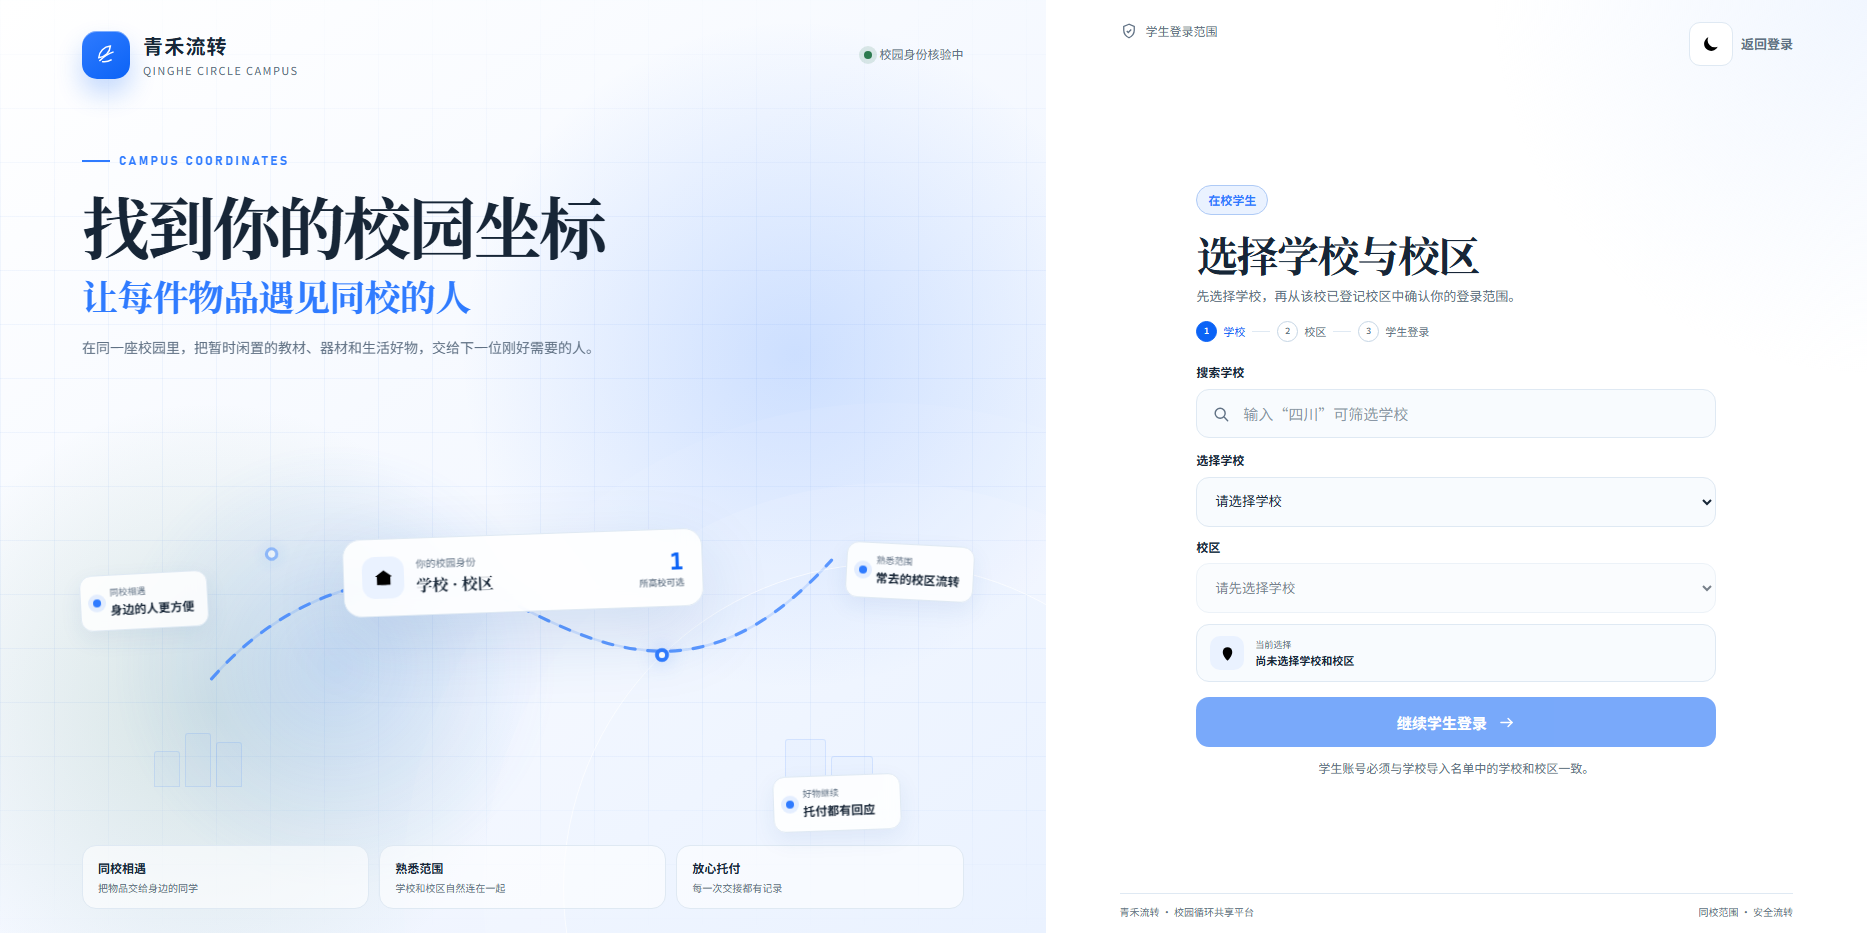
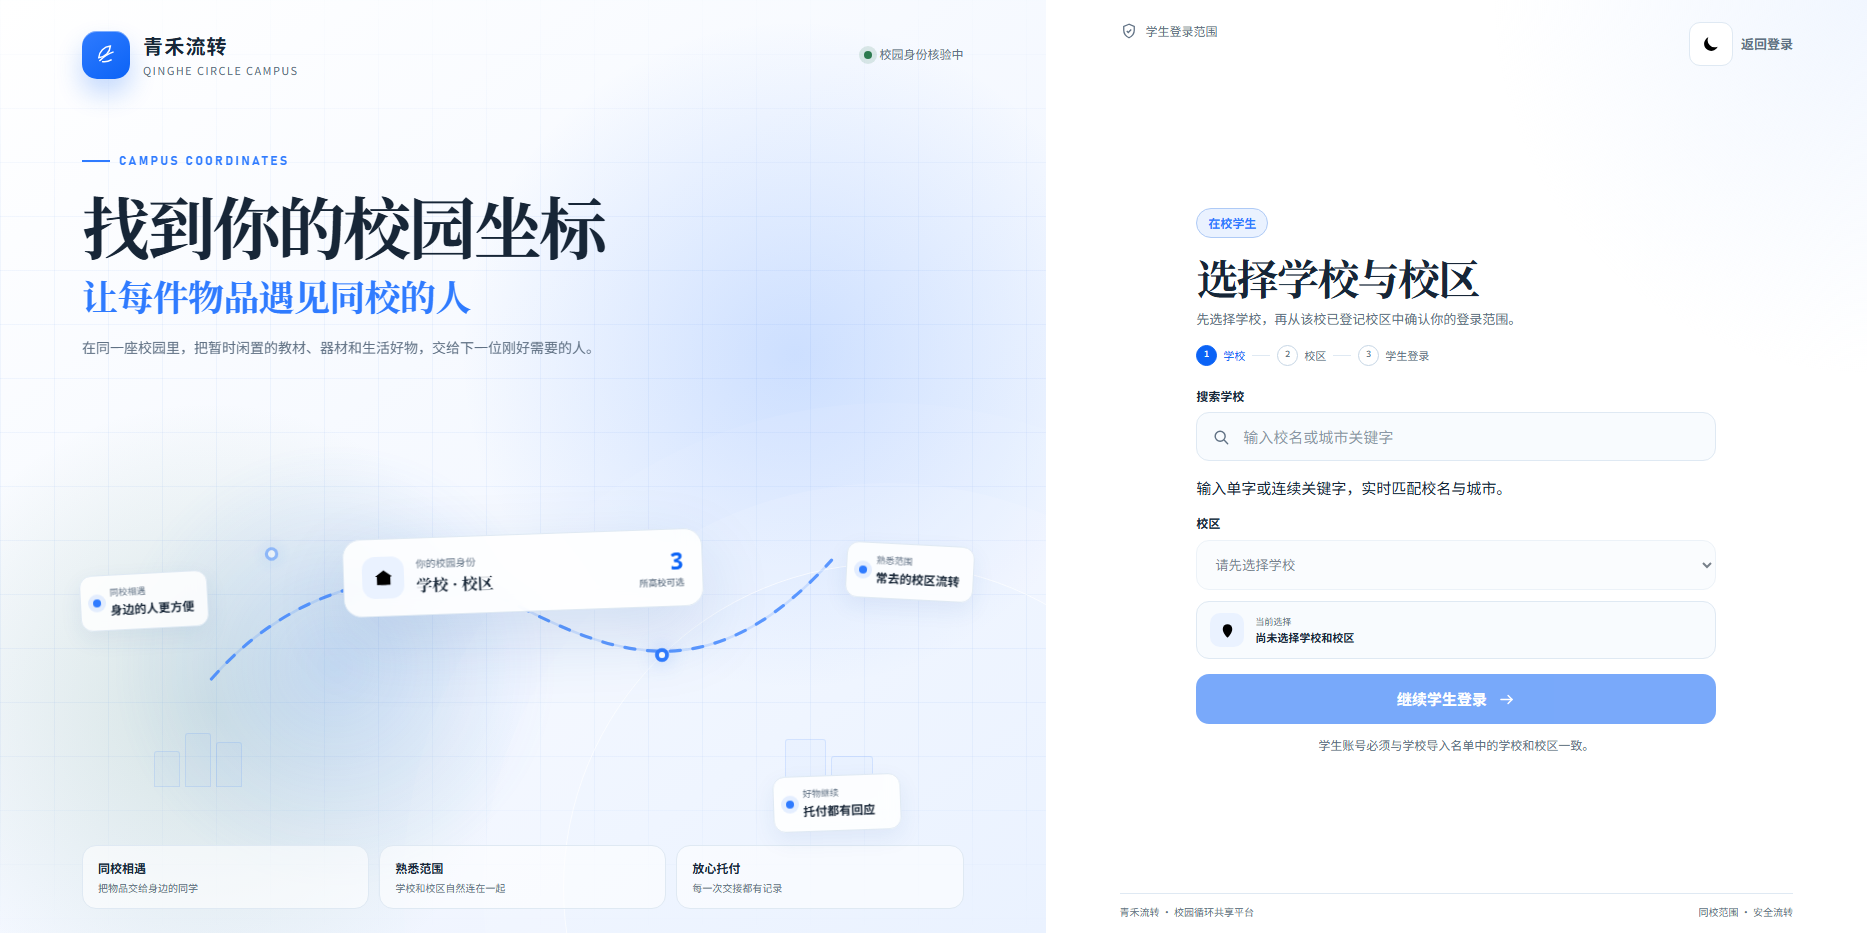
fix: 实现学校关键字实时搜索

Changed region(s): [[0.6213, 0.1865, 0.8077, 0.5595], [0.6213, 0.5906, 0.932, 0.8392], [0.6213, 0.5595, 0.6524, 0.5906]]

diff --git a/app/templates/auth/student_context.html b/app/templates/auth/student_context.html
@@ -131,18 +131,22 @@
           <input type="hidden" name="csrf_token" value="{{ csrf_token() }}">
           <input type="hidden" name="next" value="{{ next_target or '' }}">
 
-          <div class="form-field">
+          <div class="form-field university-picker" id="university-picker">
             <label for="university-filter">搜索学校</label>
-            <div class="input-shell context-input-shell">
-              <span class="input-icon" aria-hidden="true">
-                <svg viewBox="0 0 24 24"><circle cx="11" cy="11" r="6"></circle><path d="m16 16 4 4"></path></svg>
-              </span>
-              <input id="university-filter" type="text" placeholder="输入“四川”可筛选学校"
-                     aria-controls="university_id" autocomplete="off">
+            <div class="university-combobox">
+              <div class="input-shell context-input-shell">
+                <span class="input-icon" aria-hidden="true">
+                  <svg viewBox="0 0 24 24"><circle cx="11" cy="11" r="6"></circle><path d="m16 16 4 4"></path></svg>
+                </span>
+                <input id="university-filter" type="search" placeholder="输入校名或城市关键字"
+                       role="combobox" aria-autocomplete="list" aria-expanded="false"
+                       aria-controls="university-results" aria-describedby="university-search-hint university-error"
+                       autocomplete="off">
+              </div>
+              <div id="university-results" class="university-results" role="listbox" aria-label="学校搜索结果" hidden></div>
             </div>
 
-            <label class="context-select-label" for="university_id">选择学校</label>
-            <select id="university_id" name="university_id" required>
+            <select id="university_id" name="university_id" class="university-native" tabindex="-1" aria-hidden="true">
               <option value="" selected disabled>请选择学校</option>
               {% for uni in universities %}
                 <option value="{{ uni.id }}" data-name="{{ uni.name }} {{ uni.city }}"
@@ -151,6 +155,8 @@
                 </option>
               {% endfor %}
             </select>
+            <p class="field-hint" id="university-search-hint">输入单字或连续关键字，实时匹配校名与城市。</p>
+            <p class="field-error" id="university-error" hidden>请从搜索结果中选择学校。</p>
           </div>
 
           <div class="form-field">
@@ -199,10 +205,82 @@
       const filterInput = document.getElementById("university-filter");
       const universitySelect = document.getElementById("university_id");
       const campusSelect = document.getElementById("campus_id");
+      const universityPicker = document.getElementById("university-picker");
+      const universityResults = document.getElementById("university-results");
+      const universityError = document.getElementById("university-error");
       const submit = document.getElementById("context-submit");
       const summary = document.getElementById("selection-summary");
       const stepSchool = document.querySelector('[data-step="school"]');
       const stepCampus = document.querySelector('[data-step="campus"]');
+      const schoolOptions = Array.from(universitySelect.options).filter((option) => option.value);
+      let activeIndex = -1;
+
+      universityPicker.classList.add("is-enhanced");
+      universitySelect.removeAttribute("required");
+
+      function optionLabel(option) {
+        return option.textContent.trim();
+      }
+
+      function closeResults() {
+        universityResults.hidden = true;
+        filterInput.setAttribute("aria-expanded", "false");
+        filterInput.removeAttribute("aria-activedescendant");
+        activeIndex = -1;
+      }
+
+      function setActiveResult(index) {
+        const buttons = Array.from(universityResults.querySelectorAll(".university-option"));
+        if (!buttons.length) return;
+        activeIndex = (index + buttons.length) % buttons.length;
+        buttons.forEach((button, buttonIndex) => {
+          button.classList.toggle("is-active", buttonIndex === activeIndex);
+        });
+        filterInput.setAttribute("aria-activedescendant", buttons[activeIndex].id);
+        buttons[activeIndex].scrollIntoView({ block: "nearest" });
+      }
+
+      function chooseUniversity(option) {
+        universitySelect.value = option.value;
+        filterInput.value = optionLabel(option);
+        universityError.hidden = true;
+        closeResults();
+        refreshCampuses();
+        campusSelect.focus();
+      }
+
+      function renderResults() {
+        const keyword = filterInput.value.trim().toLowerCase();
+        if (!keyword) {
+          closeResults();
+          return;
+        }
+        const matches = schoolOptions.filter((option) =>
+          (option.dataset.name || "").toLowerCase().includes(keyword)
+        );
+        universityResults.replaceChildren();
+        activeIndex = -1;
+        if (!matches.length) {
+          const empty = document.createElement("p");
+          empty.className = "university-empty";
+          empty.textContent = "没有匹配的学校，请换个关键字。";
+          universityResults.append(empty);
+        } else {
+          matches.slice(0, 30).forEach((option, index) => {
+            const button = document.createElement("button");
+            button.type = "button";
+            button.id = `university-option-${index}`;
+            button.className = "university-option";
+            button.setAttribute("role", "option");
+            button.dataset.value = option.value;
+            button.textContent = optionLabel(option);
+            button.addEventListener("click", () => chooseUniversity(option));
+            universityResults.append(button);
+          });
+        }
+        universityResults.hidden = false;
+        filterInput.setAttribute("aria-expanded", "true");
+      }
 
       function selectedUniversityName() {
         return universitySelect.selectedIndex > 0 ? universitySelect.selectedOptions[0].textContent.trim() : "";
@@ -252,16 +330,51 @@
       }
 
       filterInput.addEventListener("input", () => {
-        const keyword = filterInput.value.trim().toLowerCase();
-        universitySelect.querySelectorAll("option[data-name]").forEach((option) => {
-          const visible = !keyword || option.dataset.name.toLowerCase().includes(keyword);
-          option.hidden = !visible;
-          option.disabled = !visible;
-        });
+        const selected = universitySelect.selectedOptions[0];
+        if (selected && filterInput.value.trim() !== optionLabel(selected)) {
+          universitySelect.value = "";
+          refreshCampuses();
+        }
+        universityError.hidden = true;
+        renderResults();
+      });
+
+      filterInput.addEventListener("focus", () => {
+        if (filterInput.value.trim() && !universitySelect.value) renderResults();
+      });
+
+      filterInput.addEventListener("keydown", (event) => {
+        if (event.key === "ArrowDown" || event.key === "ArrowUp") {
+          event.preventDefault();
+          if (universityResults.hidden) renderResults();
+          const offset = event.key === "ArrowDown" ? 1 : -1;
+          setActiveResult(activeIndex + offset);
+        } else if (event.key === "Enter" && activeIndex >= 0) {
+          event.preventDefault();
+          universityResults.querySelectorAll(".university-option")[activeIndex]?.click();
+        } else if (event.key === "Escape") {
+          closeResults();
+        }
+      });
+
+      document.addEventListener("pointerdown", (event) => {
+        if (!universityPicker.contains(event.target)) closeResults();
+      });
+
+      document.getElementById("student-context-form").addEventListener("submit", (event) => {
+        if (!universitySelect.value) {
+          event.preventDefault();
+          universityError.hidden = false;
+          filterInput.focus();
+        }
       });
 
       universitySelect.addEventListener("change", refreshCampuses);
       campusSelect.addEventListener("change", updateSummary);
+      const initiallySelected = universitySelect.selectedOptions[0];
+      if (initiallySelected && initiallySelected.value) {
+        filterInput.value = optionLabel(initiallySelected);
+      }
       refreshCampuses();
       updateSummary();
     })();

diff --git a/app/static/css/student-context.css b/app/static/css/student-context.css
@@ -215,9 +215,63 @@
   background: var(--c-primary-solid);
 }
 
-.context-input-shell { margin-bottom: 13px; }
+.university-picker { position: relative; }
+.university-combobox { position: relative; margin-bottom: 13px; }
+.context-input-shell { margin-bottom: 0; }
 .context-input-shell input { padding-left: 46px; }
-.context-select-label { margin-top: 0; }
+
+.university-picker.is-enhanced .university-native {
+  position: absolute;
+  width: 1px;
+  height: 1px;
+  overflow: hidden;
+  opacity: 0;
+  pointer-events: none;
+}
+
+.university-results {
+  position: absolute;
+  top: calc(100% + 6px);
+  right: 0;
+  left: 0;
+  z-index: 25;
+  max-height: 228px;
+  overflow-y: auto;
+  padding: 6px;
+  border: 1px solid var(--c-divider);
+  border-radius: 13px;
+  background: var(--c-surface);
+  box-shadow: var(--shadow-lg);
+}
+.university-option {
+  width: 100%;
+  min-height: 42px;
+  padding: 9px 11px;
+  border: 0;
+  border-radius: 9px;
+  color: var(--c-text);
+  background: transparent;
+  font-size: 12px;
+  line-height: 1.45;
+  text-align: left;
+  cursor: pointer;
+}
+.university-option:hover,
+.university-option.is-active {
+  color: var(--c-primary);
+  background: var(--c-primary-soft);
+}
+.university-option:focus-visible {
+  outline: 3px solid var(--focus-ring);
+  outline-offset: -1px;
+}
+.university-empty {
+  margin: 0;
+  padding: 14px 12px;
+  color: var(--c-text-muted);
+  font-size: 12px;
+  text-align: center;
+}
 
 .context-form-card select {
   width: 100%;

diff --git a/tests/integration/test_permissions.py b/tests/integration/test_permissions.py
@@ -207,6 +207,9 @@ class TestStudentContextEnforced:
         assert 'class="campus-visual"' in context_html
         assert 'id="selection-summary"' in context_html
         assert 'id="university-filter"' in context_html
+        assert 'id="university-results"' in context_html
+        assert 'placeholder="输入校名或城市关键字"' in context_html
+        assert "输入“四川”" not in context_html
 
     def test_student_without_campus_cannot_login(self, client):
         """未选校区时直接 POST 登录被重定向回学校校区选择。"""

diff --git a/docs/6.3-development/evidence/ui-consistency-redesign.md b/docs/6.3-development/evidence/ui-consistency-redesign.md
@@ -3,7 +3,7 @@
 | 项目 | 内容 |
 |---|---|
 | 日期 | 2026-11-21 |
-| 决策 | D-044、D-045、D-046、D-047、D-048、D-049、D-050 |
+| 决策 | D-044、D-045、D-046、D-047、D-048、D-049、D-050、D-051 |
 | 浏览器 | Microsoft Edge 157.0.4341.60 |
 | 范围 | 登录、身份切换、浅深主题、首页与工作区页面 |
 | 结论 | 通过；全量回归 195 passed，Ruff 通过，Edge 控制台 0 error |
@@ -18,6 +18,7 @@
 - D-049 将注册页改为身份核验双栏动画，并移除校区页左侧步骤式文案。
 - 注册页左侧不显示具体学校、校区或测试校名，真实范围只保留在右侧业务表单。
 - D-050 在学生未绑定学校校区时拦截注册跳转，并原位提示“请先选择学校和校区”。
+- D-051 将学校搜索改为单字、连续关键字实时结果列表，并移除“输入四川”式提示。
 - 新增浅色/深色主题切换；主题写入 `localStorage`，并在 React 之外的无框架 Jinja 页面刷新后保持。
 - 登录页先按视口预置主题，避免刷新时先显示错误配色。
 - 登录页右上角新增“切换身份”面板；选择后沿用既有身份、学校校区、登录与 `next` 回跳流程。
@@ -33,7 +34,7 @@
 
 ```text
 .\.venv\Scripts\python.exe -m pytest
-195 passed in 137.66s
+195 passed in 137.84s
 
 .\.venv\Scripts\python.exe -m ruff check app tests
 All checks passed!
@@ -48,7 +49,7 @@ Edge 自动检查覆盖：
 - 1440、768、390 px 无横向溢出；移动端可交互控件达到 44 px 目标。
 - 首页、物品发现、发布表单、物品详情、资料、申请、通知、公益项目、全部平台管理页、站点工作台、回收验收、捐赠核验、回执登记和公益项目创建页均正常渲染。
 - 表单字段具备可见标签；测试账号均为临时数据库中的虚构数据。
-- 本轮 Edge 检查共 81 项，全部通过，控制台 error 与 warning 均为 0。
+- 本轮 Edge 检查共 87 项，全部通过，控制台 error 与 warning 均为 0。
 
 完整机器结果见 [ui-consistency-browser-report.json](ui-consistency-browser-report.json)。
 
@@ -63,6 +64,7 @@ Edge 自动检查覆盖：
 - [学校与校区选择页深色](ui-consistency-student-context-dark-1867x933.png)
 - [学校与校区选择页 1366×768](ui-consistency-student-context-1366x768.png)
 - [学校与校区选择页手机](ui-consistency-student-context-390x844.png)
+- [学校实时搜索结果](ui-consistency-student-context-search-1867x933.png)
 - [学生注册页 1867×933](ui-consistency-register-1867x933.png)
 - [学生注册页深色](ui-consistency-register-dark-1867x933.png)
 - [学生注册页 1366×768](ui-consistency-register-1366x768.png)

diff --git a/docs/00-governance/decision-log.md b/docs/00-governance/decision-log.md
@@ -58,4 +58,5 @@
 | D-048 | 2026-11-21 | 仅重做学校与校区选择页：采用与登录页一致的左侧品牌叙事、右侧表单双栏结构，新增“校园坐标网络”CSS/SVG 动画，动画由学校识别卡、校区节点、流动路线和校园建筑构成。使用既有蓝色、字体和语义令牌，不改全局配色或其他页面；保留学校搜索、校区联动、CSRF、名单归属和 `next` 回跳 | 已确认（按用户本轮设计要求实施） |
 | D-049 | 2026-11-21 | 本轮只修改学校校区页与注册页：学校校区页保留“找到你的校园坐标”主文案，左侧移除第一步/第二步式文案，改为同校可见、校区覆盖、可信交接；注册页改为同款双栏结构，新增“学生身份核验卡”UI 动效，右侧注册字段、名单校验、CSRF 和 `next` 回跳不变。继续复用既有颜色与语义令牌，不修改全局主题 | 已确认（按用户本轮设计要求实施） |
 | D-050 | 2026-11-21 | 登录页增加学生注册前置防呆：学生身份尚未绑定学校校区时，点击“前往学生注册”不跳转，原位提示“请先选择学校和校区”并将焦点移到学校校区入口；已绑定后仍可正常进入注册。服务端注册守卫继续保留，形成前后端双重校验 | 已确认（缺陷修复） |
+| D-051 | 2026-11-21 | 修复学校搜索功能：不再通过隐藏原生 `<select>` 选项模拟筛选，改为可输入单字或连续关键字的实时组合框，输入“四”或“四川”都会立即展示匹配校名；保留原生选择字段供表单提交、校区联动和服务端校验。搜索提示统一为“输入校名或城市关键字”，不再出现“输入四川”等示例文案 | 已确认（缺陷修复） |
 

diff --git a/docs/6.2-design/05-ui-design-and-prototypes.md b/docs/6.2-design/05-ui-design-and-prototypes.md
@@ -3,9 +3,9 @@
 | 项目 | 内容 |
 |---|---|
 | 文档编号 | DES-UI-001 |
-| 版本 | 2.4 |
+| 版本 | 2.5 |
 | 日期 | 2026-11-21 |
-| 状态 | 已批准并冻结；2.4 为注册前置防呆 |
+| 状态 | 已批准并冻结；2.5 为学校实时搜索修复 |
 | 页面形态 | Web-only，桌面优先，基础响应式 |
 | 交互原型 | `prototype/index.html` |
 
@@ -118,6 +118,7 @@
 - 学校校区页保留“找到你的校园坐标”主标题，左侧节点改为同校可见、校区覆盖和可信交接，不再显示步骤编号。
 - 两页均复用 D-044 至 D-046 的颜色、字体、主题和桌面无滚动条规则，不修改全局令牌。
 - 学生在登录页尚未选择学校校区时点击“前往学生注册”，页面原位提示“请先选择学校和校区”，不进入注册页；学校校区绑定完成后恢复注册跳转。
+- 学校搜索使用实时组合框，输入任意单字或连续关键字都会展示匹配学校；原生选择字段仅作为表单兼容层，不在界面上重复显示。
 
 ![A 青禾发现](assets/ui-list-a.png)
 
@@ -330,3 +331,4 @@
 | 2.2 | 2026-11-21 | 学校与校区选择页改为校园坐标网络双栏布局，新增原创校园路径动画（D-048） |
 | 2.3 | 2026-11-21 | 注册页改为身份核验双栏动画；学校校区页左侧移除步骤式文案（D-049） |
 | 2.4 | 2026-11-21 | 增加学生注册前的学校校区选择防呆提示（D-050） |
+| 2.5 | 2026-11-21 | 学校搜索改为单字、连续关键字实时结果列表（D-051） |
